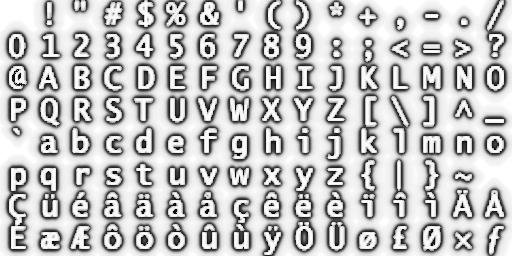
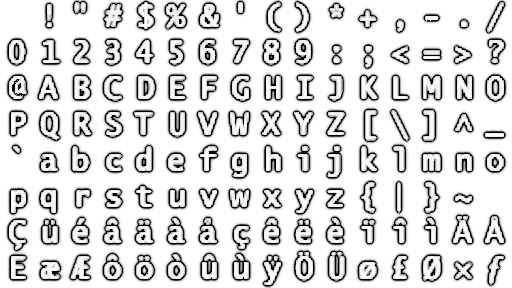
#275 tidy things up

diff --git a/examples/00_ExampleBase/src/ExampleBase.cpp b/examples/00_ExampleBase/src/ExampleBase.cpp
@@ -57,8 +57,9 @@ ExampleBase::ExampleBase(iWindowPtr window, const iaString &name, bool createBas
                 getScene()->getRoot()->insertNode(skyBoxNode);
             }
 
-            // init font
-            _font = iTextureFont::create("StandardFontOutlined.png");
+            // init fonts
+            _outlineFont = iTextureFont::create("StandardFontOutlined.png");
+            _standardFont = iTextureFont::create("StandardFont.png");
 
             // prepare igor logo
             _igorLogo = iTextureResourceFactory::getInstance().loadFile("special/splash.png", iResourceCacheMode::Free, iTextureBuildMode::Normal);
@@ -79,7 +80,8 @@ ExampleBase::~ExampleBase()
         _scene = nullptr;
 
         // release resources
-        _font = nullptr;
+        _standardFont = nullptr;
+        _outlineFont = nullptr;
         _igorLogo = nullptr;
 
         // abort resource tasks
@@ -151,7 +153,12 @@ bool ExampleBase::onKeyUp(iEventKeyUp &event)
 
 iTextureFontPtr ExampleBase::getFont() const
 {
-    return _font;
+    return _standardFont;
+}
+
+iTextureFontPtr ExampleBase::getOutlineFont() const
+{
+    return _outlineFont;
 }
 
 iView &ExampleBase::getView()
@@ -230,7 +237,7 @@ void ExampleBase::drawHelpScreen()
 {
     const iaString& help = getHelpString();
 
-    iRenderer::getInstance().setFont(getFont());
+    iRenderer::getInstance().setFont(getOutlineFont());
     iRenderer::getInstance().setFontSize(30.0f);
 
     // fake an outline

diff --git a/examples/00_ExampleBase/src/ExampleBase.h b/examples/00_ExampleBase/src/ExampleBase.h
@@ -62,6 +62,10 @@ public:
     */
     iTextureFontPtr getFont() const;
 
+    /*! \returns outline font
+    */
+    iTextureFontPtr getOutlineFont() const;
+
     /*! \returns font material
     */
     iMaterialID getFontMaterial() const;
@@ -130,9 +134,13 @@ private:
     */
     iTexturePtr _igorLogo;
 
-    /*! texture font we use to display the profiler
+    /*! outline font
     */
-    iTextureFontPtr _font;
+    iTextureFontPtr _outlineFont;
+
+    /*! standard font
+    */
+    iTextureFontPtr _standardFont;    
 
     /*! if true we display a help screen
     */

diff --git a/src/igor/igor/resources/texture/iTextureFont.h b/src/igor/igor/resources/texture/iTextureFont.h
@@ -86,7 +86,7 @@ namespace igor
         \param cound index count
         \param indices the index data
         */
-        static iTextureFontPtr create(const iaString &filename, iFontType type = iFontType::FixedDigitWidth, iColorMask colorMask = iColorMask::Alpha, float32 colorMaskThreashold = 0.0f);
+        static iTextureFontPtr create(const iaString &filename, iFontType type = iFontType::FixedDigitWidth, iColorMask colorMask = iColorMask::Alpha, float32 colorMaskThreashold = 0.5f);
 
         /*! ctor
 
